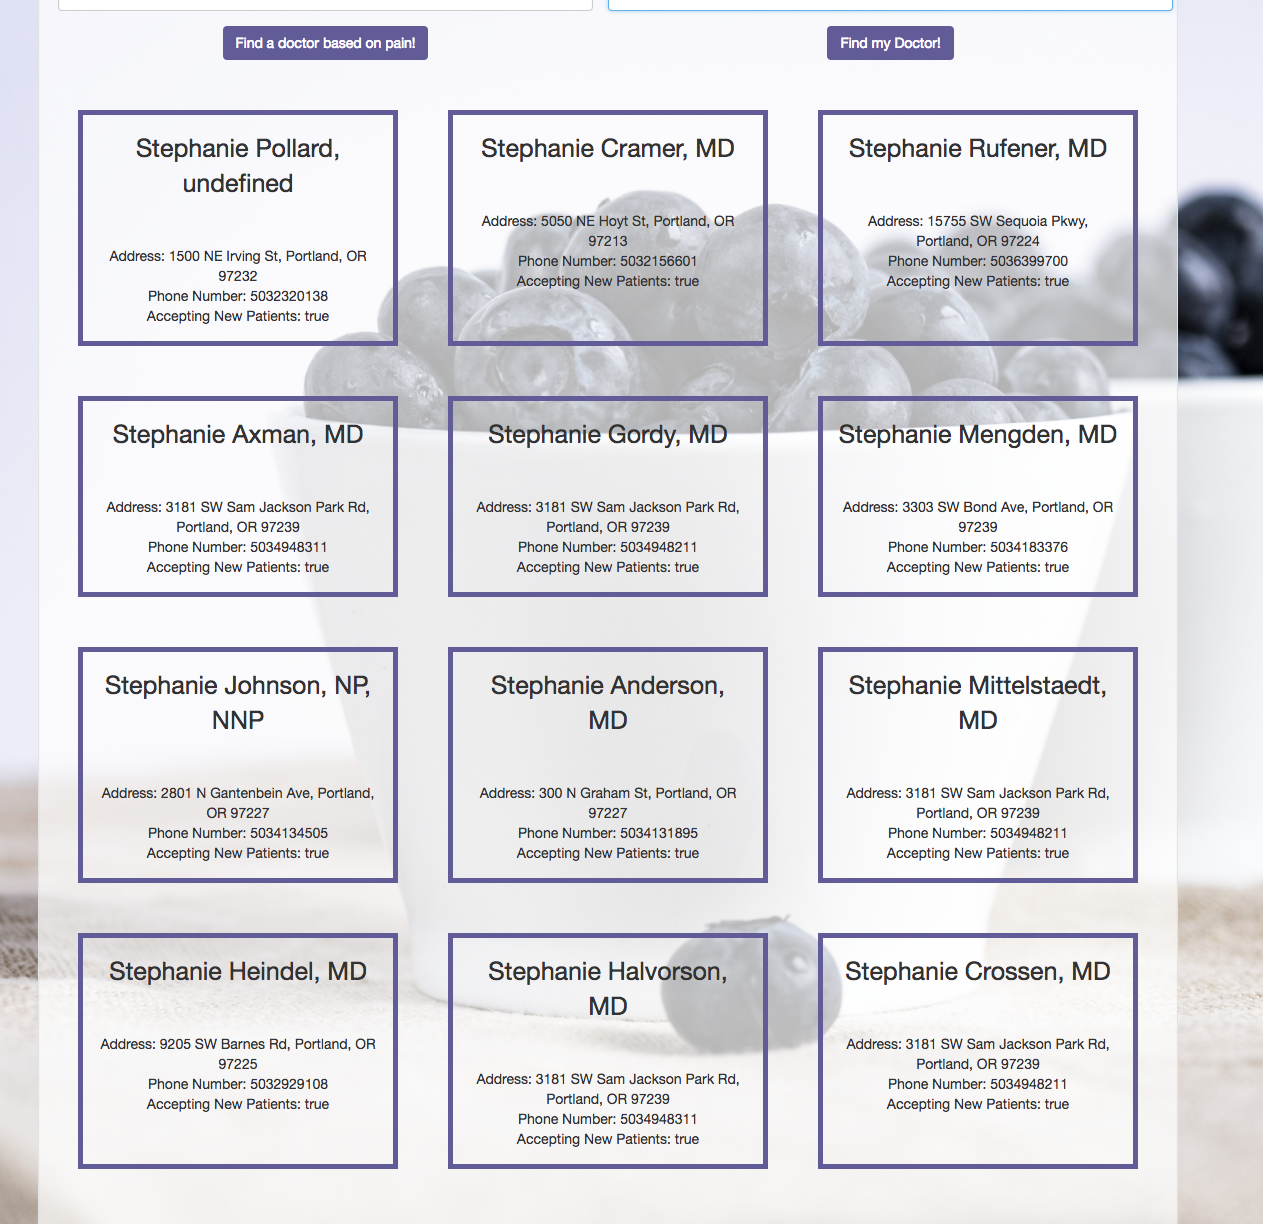
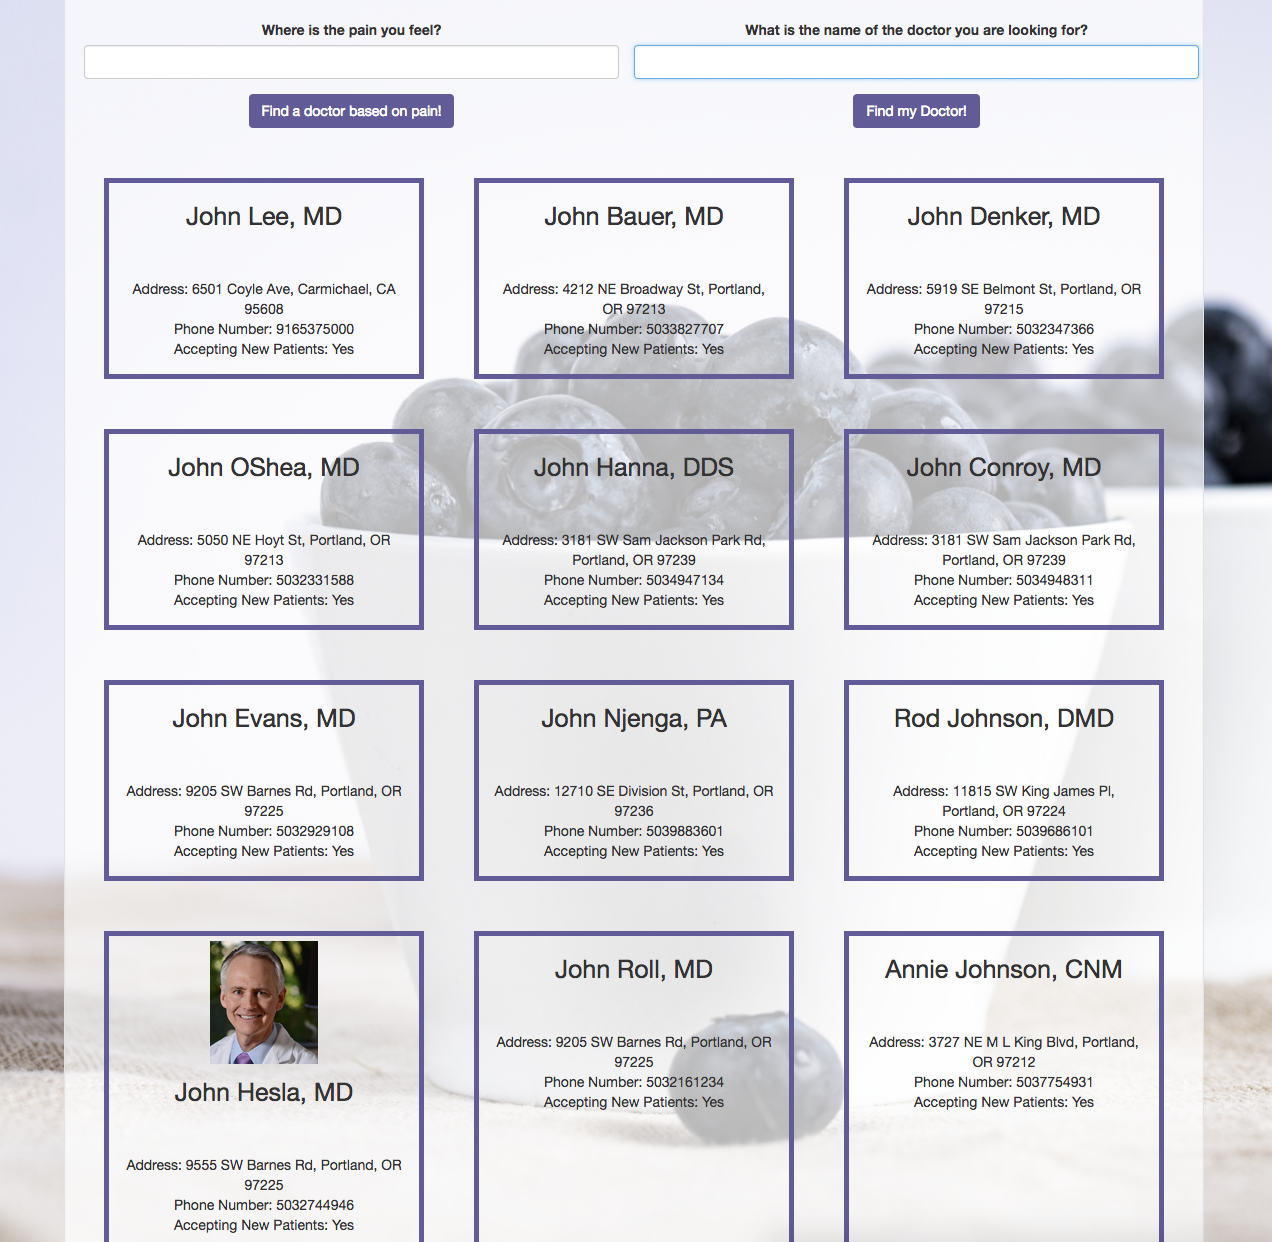
add dropdown

diff --git a/js/doctorlookup-interface.js b/js/doctorlookup-interface.js
@@ -3,22 +3,19 @@ var apiKey = require('./../.env').apiKey;
 import { Doctor } from './../js/doctorlookup.js';
 
 $(function(){
-  //Drop Down
-  // Doctor.apiRequestForSpecialitys();
-  //
-  // function dropDown(speciality){
-  //   speciality.forEach(speciality, function(list){
-  //     $("#dropDown").append($('<option></option>').val(speciality[list]));
-  //   })
-  // };
 
-  $("#doctorForm").submit(function(e){
+  Doctor.apiRequestForSpecialitys(newDropDown);
+
+  function newDropDown(speciality){
+    speciality.forEach(function(list){
+      $("#dropDown").append('<option>' + list.speciality + '</option>');
+    })
+  };
+  $("#dropDownForm").submit(function(e){
     e.preventDefault();
-    let problem = $("#problem").val();
-    let doctorName = $("#doctorName").val();
+    let dropDown = $("#dropDown").val();
 
-    Doctor.apiRequestForDoctors(problem, displayDoctors);
-
+    Doctor.apiRequestForDoctors(dropDown, displayDoctors);
 
     function displayDoctors(doctors){
       if(doctors.length === 0){
@@ -27,11 +24,37 @@ $(function(){
       else{
        doctors.forEach(function(doctorInfo){
          $("#noDoc").empty();
-         $("#output").append("<div class=panel-panel>" +  "<img src="+ doctorInfo.photo + "</>"+ "</br>"+ "<div class='panel-heading'"+ '<h3>' + doctorInfo.first_name + " " + doctorInfo.last_name + ", " + "</br>" + doctorInfo.title + '</h3>' + "</div>" + "<br>" + "<div class='panel-body'>" + "Address: " + doctorInfo.streetAddress + ", "+ doctorInfo.city + ", " + doctorInfo.state + " " + doctorInfo.zip + "<br>" + "Phone Number: " + doctorInfo.phone + "<br>" + "Accepting New Patients: " + doctorInfo.newPatients + "</div>" + "</div>");
+         $("#output").append("<div class=panel-panel>" +  "<img src="+ doctorInfo.photo + "</>"+ "</br>"+ "<div class='panel-heading'"+ '<h3>' + doctorInfo.first_name + " " + doctorInfo.last_name + ", " + doctorInfo.title + '</h3>' + "</div>" + "<br>" + "<div class='panel-body'>" + "Address: " + doctorInfo.streetAddress + ", "+ doctorInfo.city + ", " + doctorInfo.state + " " + doctorInfo.zip + "<br>" + "Phone Number: " + doctorInfo.phone + "<br>" + "Accepting New Patients: " + doctorInfo.newPatients + "</div>" + "</div>");
 
          })
        }
      }
+
+     $("input").val("");
+     $("#output").empty();
+     $("#noDoc").empty();
+
+  })
+  $("#doctorForm").submit(function(e){
+    e.preventDefault();
+    let problem = $("#problem").val();
+    let doctorName = $("#doctorName").val();
+
+    Doctor.apiRequestForDoctors(problem, displayDoctors);
+
+    function displayDoctors(doctors){
+      if(doctors.length === 0){
+        $("#noDoc").append("There are no Doctors matching this search, please try again")
+      }
+      else{
+       doctors.forEach(function(doctorInfo){
+         $("#noDoc").empty();
+         $("#output").append("<div class=panel-panel>" +  "<img src="+ doctorInfo.photo + "</>"+ "</br>"+ "<div class='panel-heading'"+ '<h3>' + doctorInfo.first_name + " " + doctorInfo.last_name + ", " + doctorInfo.title + '</h3>' + "</div>" + "<br>" + "<div class='panel-body'>" + "Address: " + doctorInfo.streetAddress + ", "+ doctorInfo.city + ", " + doctorInfo.state + " " + doctorInfo.zip + "<br>" + "Phone Number: " + doctorInfo.phone + "<br>" + "Accepting New Patients: " + doctorInfo.newPatients + "</div>" + "</div>");
+
+         })
+       }
+     }
+
      $("input").val("");
      $("#output").empty();
      $("#noDoc").empty();
@@ -53,7 +76,7 @@ $(function(){
          })
        }
      }
-    $("#output").append('<a href=' + "https://betterdoctor.com" + '>' + "Powered by Better Doctor" + '</a>')
+
      $("input").val("");
      $("#output").empty();
      $("#noDoc").empty();

diff --git a/js/doctorlookup.js b/js/doctorlookup.js
@@ -35,29 +35,27 @@ export let Doctor = {
 
   },
 //Drop Down
-  // apiRequestForSpecialitys: function(speciality, dropDown){
-  //   $.ajax({
-  //     url: 'https://api.betterdoctor.com/2016-03-01/specialties?limit=100&user_key='+ apiKey,
-  //     type: 'GET',
-  //     data: {
-  //       format: 'json'
-  //     },
-  //     success: (response) => {
-  //       console.log(response)
-  //       this.saveSpecialityToArray(response)
-  //       // dropDown(response, speciality)
-  //
-  //     },
-  //     error: function(){
-  //       $("#output").text("There has been an error");
-  //     }
-  //
-  //   })
-  // },
+  apiRequestForSpecialitys: function(newDropDown){
+    $.ajax({
+      url: 'https://api.betterdoctor.com/2016-03-01/specialties?limit=100&user_key='+ apiKey,
+      type: 'GET',
+      data: {
+        format: 'json'
+      },
+      success: (response) => {
+        this.saveSpecialityToArray(response, newDropDown)
+      },
+      error: function(){
+        $("#output").text("There has been an error");
+      }
+
+    })
+  },
 
     saveDoctorsToArray: function(response, displayDoctors){
       let doctors = [];
-      let patients = "no";
+      let patients = "No";
+      let url = "";
 
       response.data.forEach(function(doctor){
         if (doctor.practices[0].accepts_new_patients === true){
@@ -80,17 +78,21 @@ export let Doctor = {
       displayDoctors(doctors)
     },
 //Drop Down
-    // saveSpecialityToArray: function(response, dropDown){
-    //   let speciality = [];
-    //   response.data.forEach(function(doctorSpeciality){
-    //     speciality.push(
-    //       {
-    //         speciality: doctorSpeciality.data[0].name
-    //       })
-    //   })
-    //   console.log(speciality)
-    //   dropDown(speciality);
-    // }
+    saveSpecialityToArray: function(response, newDropDown){
+      let speciality = [];
+      response.data.forEach(function(doctorSpeciality){
+        speciality.push(
+          {
+            speciality: doctorSpeciality.name
+          })
+      })
+      let sorted = speciality.sort(function(a,b){
+        var textA = a.speciality.toUpperCase();
+        var textB = b.speciality.toUpperCase();
+        return (textA < textB) ? -1 : (textA > textB) ? 1 : 0;
+      });
+      newDropDown(sorted);
+    }
 
 
 

diff --git a/index.html b/index.html
@@ -18,9 +18,13 @@
         <div id="newRowBorder">
           <h3>Please Fill in One of the following</h3>
         </div>
-        <div id="newDrop">
-          <select class="form-control" id="dropDown">
-          </select>
+        <div class="row">
+            <form id="dropDownForm">
+              <h5>Find a Doctor by Speciality</h5>
+                <select class="form-control" id="dropDown">
+              </select>
+              <button class="btn" id ="dropDownButton" type="submit">Find a doctor by Speciality</button>
+            </form>
         </div>
         <div class="row">
           <div class="col-md-6">

diff --git a/css/styles.css b/css/styles.css
@@ -37,7 +37,7 @@ body {
   text-align: center;
   margin-top: 15px
 }
-h3{
+h3, h5{
   text-align: center;
 }
 #output {
@@ -70,4 +70,14 @@ img{
 }
 #newRowBorder{
   border-bottom: 5px solid white;
+}
+#dropDownButton{
+  display: block;
+  margin: auto;
+  margin-top: 20px;
+}
+#dropDownForm{
+  display: block;
+  margin: auto;
+  width: 40%;
 }
